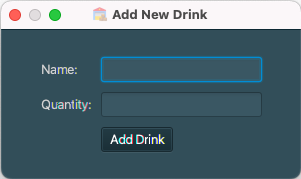
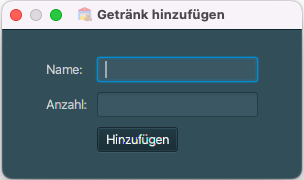
Refactoring to german

diff --git a/src/main/java/de/mobile/university/Lagerverwaltung/service/GetraenkeVerwaltungService.java b/src/main/java/de/mobile/university/Lagerverwaltung/service/GetraenkeVerwaltungService.java
@@ -1,10 +1,10 @@
-package de.mobile.university.WarehouseManager.service;
+package de.mobile.university.Lagerverwaltung.service;
 
-import de.mobile.university.WarehouseManager.config.AppConfig;
-import de.mobile.university.WarehouseManager.exception.DrinkDuplicateException;
-import de.mobile.university.WarehouseManager.exception.DrinkNotFoundException;
-import de.mobile.university.WarehouseManager.exception.DrinkQuantityNegativeException;
-import de.mobile.university.WarehouseManager.model.Drink;
+import de.mobile.university.Lagerverwaltung.config.AppConfig;
+import de.mobile.university.Lagerverwaltung.exception.DrinkDuplicateException;
+import de.mobile.university.Lagerverwaltung.exception.DrinkNotFoundException;
+import de.mobile.university.Lagerverwaltung.exception.DrinkQuantityNegativeException;
+import de.mobile.university.Lagerverwaltung.model.Getraenk;
 import javafx.collections.FXCollections;
 import javafx.collections.ObservableList;
 
@@ -19,10 +19,10 @@ public enum DrinkManagementService {
     INSTANCE();
 
     private final DrinkStorageService drinkStorageService;
-    private ObservableList<Drink> drinks;
+    private ObservableList<Getraenk> getraenke;
 
     DrinkManagementService() {
-        drinks = FXCollections.observableArrayList(new ArrayList<>());
+        getraenke = FXCollections.observableArrayList(new ArrayList<>());
         drinkStorageService = new CsvDrinkStorageService();
         loadDrinks();
     }
@@ -31,44 +31,44 @@ public enum DrinkManagementService {
         return INSTANCE;
     }
 
-    public ObservableList<Drink> getDrinks() {
-        return drinks;
+    public ObservableList<Getraenk> getDrinks() {
+        return getraenke;
     }
 
     private void loadDrinks() {
-        if (new File(AppConfig.INVENTORY_FILE).exists()) {
-            drinks = FXCollections.observableArrayList(drinkStorageService.load(AppConfig.INVENTORY_FILE));
+        if (new File(AppConfig.LAGER_CSV).exists()) {
+            getraenke = FXCollections.observableArrayList(drinkStorageService.load(AppConfig.LAGER_CSV));
             sortByQuantity();
         } else {
-            drinks = FXCollections.observableArrayList(new ArrayList<>());
+            getraenke = FXCollections.observableArrayList(new ArrayList<>());
         }
     }
 
     private void sortByQuantity() {
         System.out.println("Sorting by quantity");
-        this.drinks.sort(Comparator.comparingInt(Drink::getQuantity).thenComparing(Drink::getName));
+        this.getraenke.sort(Comparator.comparingInt(Getraenk::getQuantity).thenComparing(Getraenk::getName));
     }
 
     public synchronized void updateQuantity(String name, int quantity) {
         int index = findIndexByName(name);
         if (index != -1) {
-            int newQuantity = drinks.get(index).getQuantity() + quantity;
-            System.out.println("Updating quantity of: " + name + " from: " + drinks.get(index).getQuantity() + " to: " + newQuantity);
+            int newQuantity = getraenke.get(index).getQuantity() + quantity;
+            System.out.println("Updating quantity of: " + name + " from: " + getraenke.get(index).getQuantity() + " to: " + newQuantity);
             if (newQuantity < 0) {
                 throw new DrinkQuantityNegativeException(name);
             }
-            drinks.add(new Drink(name, newQuantity));
-            drinks.remove(index);
+            getraenke.add(new Getraenk(name, newQuantity));
+            getraenke.remove(index);
             sortByQuantity();
-            drinkStorageService.save(drinks);
+            drinkStorageService.save(getraenke);
         } else {
             throw new DrinkNotFoundException(name);
         }
     }
 
     private int findIndexByName(String name) {
-        for (int i = 0; i < drinks.size(); i++) {
-            if (Objects.equals(drinks.get(i).getName(), name)) {
+        for (int i = 0; i < getraenke.size(); i++) {
+            if (Objects.equals(getraenke.get(i).getName(), name)) {
                 return i;
             }
         }
@@ -81,14 +81,14 @@ public enum DrinkManagementService {
             throw new DrinkQuantityNegativeException(name);
         }
         if (!drinkAlreadyExists(name)) {
-            drinks.add(new Drink(name, quantity));
+            getraenke.add(new Getraenk(name, quantity));
         }
         sortByQuantity();
-        drinkStorageService.save(drinks);
+        drinkStorageService.save(getraenke);
     }
 
     private boolean drinkAlreadyExists(String name) {
-        if (drinks.stream().anyMatch(d -> Objects.equals(d.getName().toLowerCase(), name.toLowerCase()))) {
+        if (getraenke.stream().anyMatch(d -> Objects.equals(d.getName().toLowerCase(), name.toLowerCase()))) {
             throw new DrinkDuplicateException(name);
         }
         return false;

diff --git a/src/main/java/de/mobile/university/Lagerverwaltung/service/CsvLagerService.java b/src/main/java/de/mobile/university/Lagerverwaltung/service/CsvLagerService.java
@@ -1,7 +1,7 @@
-package de.mobile.university.WarehouseManager.service;
+package de.mobile.university.Lagerverwaltung.service;
 
-import de.mobile.university.WarehouseManager.config.AppConfig;
-import de.mobile.university.WarehouseManager.model.Drink;
+import de.mobile.university.Lagerverwaltung.config.AppConfig;
+import de.mobile.university.Lagerverwaltung.model.Getraenk;
 
 import java.io.*;
 import java.util.ArrayList;
@@ -10,16 +10,16 @@ import java.util.List;
 public class CsvDrinkStorageService implements DrinkStorageService {
 
     @Override
-    public void save(List<Drink> drinks) {
-        System.out.println("Saving to file: " + AppConfig.INVENTORY_FILE);
-        try (FileWriter writer = new FileWriter(AppConfig.INVENTORY_FILE)) {
+    public void save(List<Getraenk> getraenke) {
+        System.out.println("Saving to file: " + AppConfig.LAGER_CSV);
+        try (FileWriter writer = new FileWriter(AppConfig.LAGER_CSV)) {
 
             // Write headers
             writer.write("name,quantity\n");
 
             // Write data
-            for (Drink drink : drinks) {
-                writer.write(drink.getName() + "," + drink.getQuantity() + "\n");
+            for (Getraenk getraenk : getraenke) {
+                writer.write(getraenk.getName() + "," + getraenk.getQuantity() + "\n");
             }
         } catch (IOException e) {
             e.printStackTrace();
@@ -27,9 +27,9 @@ public class CsvDrinkStorageService implements DrinkStorageService {
     }
 
     @Override
-    public List<Drink> load(String filename) {
+    public List<Getraenk> load(String filename) {
         System.out.println("Loading from file: " + filename);
-        List<Drink> result = new ArrayList<Drink>();
+        List<Getraenk> result = new ArrayList<Getraenk>();
         BufferedReader br = null;
         try {
             br = new BufferedReader(new FileReader(new File(filename)));
@@ -59,7 +59,7 @@ public class CsvDrinkStorageService implements DrinkStorageService {
                         throw new ArrayIndexOutOfBoundsException();
 
                     // Convert data to drink record
-                    result.add(new Drink(items[0], Integer.parseInt(items[1])));
+                    result.add(new Getraenk(items[0], Integer.parseInt(items[1])));
                 } catch (ArrayIndexOutOfBoundsException |
                          NumberFormatException |
                          NullPointerException e) {

diff --git a/src/main/java/de/mobile/university/Lagerverwaltung/service/ExterneBestandsaenderungService.java b/src/main/java/de/mobile/university/Lagerverwaltung/service/ExterneBestandsaenderungService.java
@@ -1,9 +1,9 @@
-package de.mobile.university.WarehouseManager.service;
+package de.mobile.university.Lagerverwaltung.service;
 
-import de.mobile.university.WarehouseManager.config.AppConfig;
-import de.mobile.university.WarehouseManager.exception.DrinkDuplicateException;
-import de.mobile.university.WarehouseManager.exception.DrinkNotFoundException;
-import de.mobile.university.WarehouseManager.exception.DrinkQuantityNegativeException;
+import de.mobile.university.Lagerverwaltung.config.AppConfig;
+import de.mobile.university.Lagerverwaltung.exception.DrinkDuplicateException;
+import de.mobile.university.Lagerverwaltung.exception.DrinkNotFoundException;
+import de.mobile.university.Lagerverwaltung.exception.DrinkQuantityNegativeException;
 import javafx.application.Platform;
 
 import java.io.File;
@@ -34,9 +34,9 @@ public class ExternalInventoryImportService extends Thread {
     }
 
     private void importDrinks() {
-        File inventory = new File(AppConfig.EXTERNAL_INVENTORY_FILE);
+        File inventory = new File(AppConfig.DONE_CSV);
         if (inventory.exists()) {
-            drinkStorageService.load(AppConfig.EXTERNAL_INVENTORY_FILE).forEach(drink -> {
+            drinkStorageService.load(AppConfig.DONE_CSV).forEach(drink -> {
                 Platform.runLater(() -> {
                     try {
                         drinkManagementService.updateQuantity(drink.getName(), drink.getQuantity());

diff --git a/src/main/java/de/mobile/university/Lagerverwaltung/ausnahmen/GetraenkeBestandNegativException.java b/src/main/java/de/mobile/university/Lagerverwaltung/ausnahmen/GetraenkeBestandNegativException.java
@@ -1,0 +1,8 @@
+package de.mobile.university.Lagerverwaltung.exception;
+
+public class GetraenkeBestandNegativException extends IllegalStateException {
+
+    public GetraenkeBestandNegativException(String name) {
+        super("Getraenk " + name + " hat einen negativen Bestand!");
+    }
+}

diff --git a/src/main/java/de/mobile/university/Lagerverwaltung/service/LagerService.java b/src/main/java/de/mobile/university/Lagerverwaltung/service/LagerService.java
@@ -1,0 +1,11 @@
+package de.mobile.university.Lagerverwaltung.service;
+
+import de.mobile.university.Lagerverwaltung.model.Getraenk;
+
+import java.util.List;
+
+public interface DrinkStorageService {
+    void save(List<Getraenk> getraenke);
+
+    List<Getraenk> load(String filename);
+}

diff --git a/src/main/java/de/mobile/university/Lagerverwaltung/ausnahmen/GetraenkNichtGefundenException.java b/src/main/java/de/mobile/university/Lagerverwaltung/ausnahmen/GetraenkNichtGefundenException.java
@@ -1,0 +1,8 @@
+package de.mobile.university.Lagerverwaltung.exception;
+
+public class GetraenkNichtGefundenException extends NullPointerException {
+
+    public GetraenkNichtGefundenException(String name) {
+        super("Getraenk " + name + " nicht gefunden!");
+    }
+}

diff --git a/src/main/java/de/mobile/university/Lagerverwaltung/konfiguration/AppKonfiguration.java b/src/main/java/de/mobile/university/Lagerverwaltung/konfiguration/AppKonfiguration.java
@@ -1,0 +1,7 @@
+package de.mobile.university.Lagerverwaltung.config;
+
+public class AppConfig {
+    public static final String APP_NAME = "Lagerverwaltung";
+    public static final String LAGER_CSV = "lager.csv";
+    public static final String DONE_CSV = "done.csv";
+}

diff --git a/src/main/java/de/mobile/university/Lagerverwaltung/ausnahmen/GetraenkDuplikatException.java b/src/main/java/de/mobile/university/Lagerverwaltung/ausnahmen/GetraenkDuplikatException.java
@@ -1,0 +1,8 @@
+package de.mobile.university.Lagerverwaltung.exception;
+
+public class GetraenkDuplikatException extends IllegalStateException {
+
+    public GetraenkDuplikatException(String name) {
+        super("Getraenk " + name + " bereits vorhanden!");
+    }
+}
